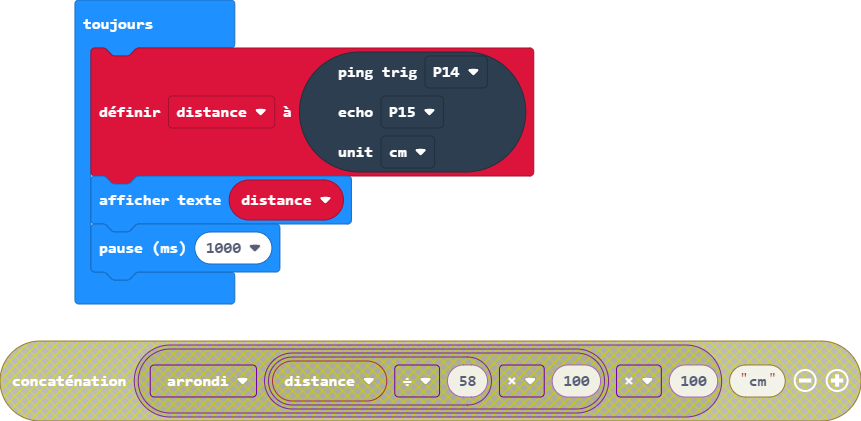
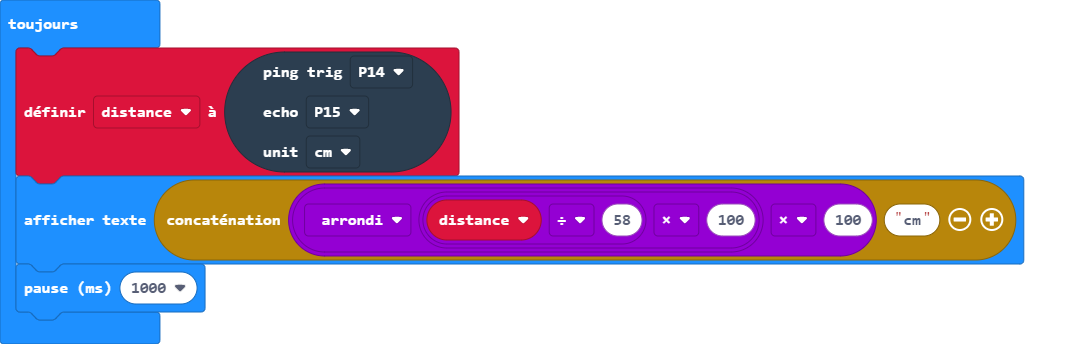
Mise à jour pxt.json, main.blocks, main.ts

diff --git a/main.ts b/main.ts
@@ -5,6 +5,6 @@ basic.forever(function () {
     DigitalPin.P15,
     PingUnit.Centimeters
     )
-    basic.showString("" + (distance))
+    basic.showString("" + Math.round(distance / 58 * 100) * 100 + "cm")
     basic.pause(1000)
 })
